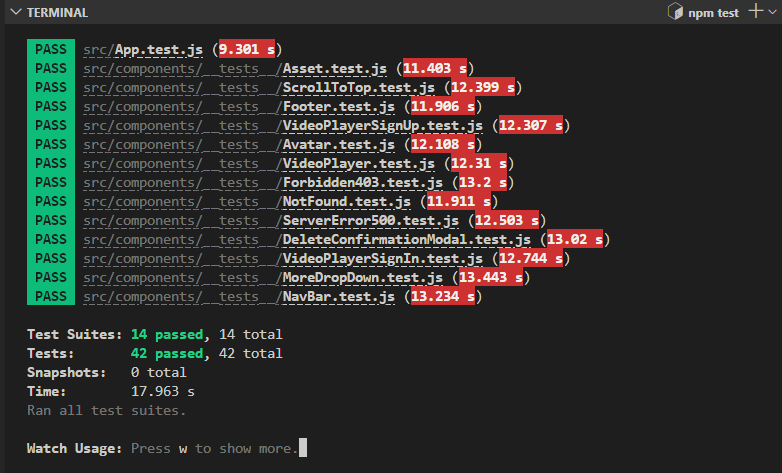
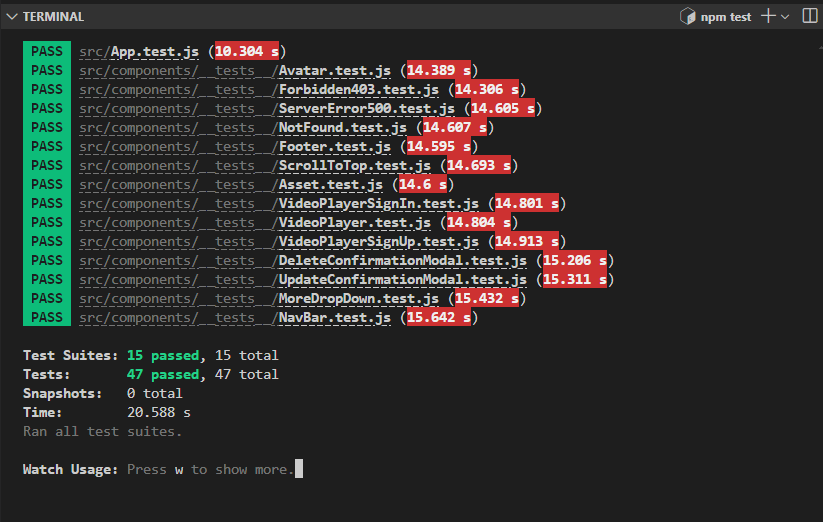
TESTING - Aadd update modal testing results to automated table

Changed region(s): [[0.0, 0.0, 0.798, 0.9767], [0.8286, 0.0, 1.0, 0.0592]]

diff --git a/src/App.js b/src/App.js
@@ -48,7 +48,7 @@ function App() {
             <Route exact path="/" component={LandingPage} />
             <Route
               exact
-              path="/"
+              path="/feed"
               render={() => (
                 <PostsPage message="No results found. Adjust the search keyword." />
               )}
@@ -124,9 +124,7 @@ function App() {
             <Route exact path="/courses/:slug" component={CourseSingle} />
             <Route exact path="/contactus" component={ContactForm} />
             <Route exact path="/403" component={Forbidden403} />{' '}
-            {/* Add the 403 route */}
             <Route exact path="/500" component={ServerError500} />{' '}
-            {/* Add the 500 route */}
             <Route component={NotFound} />
           </Switch>
         </Container>

diff --git a/TESTING.md b/TESTING.md
@@ -721,27 +721,28 @@ The following table summarizes the testing files created for various components 
 
 | Component                     | Test File Link                                              | Status                          |
 |-------------------------------|-------------------------------------------------------------|---------------------------------|
-| App                           | [src/App.test.js](src/App.test.js)                          | PASS (9.301 s)                  |
-| Asset                         | [src/components/__tests__/Asset.test.js](src/components/__tests__/Asset.test.js) | PASS (11.403 s)                 |
-| Avatar                        | [src/components/__tests__/Avatar.test.js](src/components/__tests__/Avatar.test.js) | PASS (12.108 s)                 |
-| Footer                        | [src/components/__tests__/Footer.test.js](src/components/__tests__/Footer.test.js) | PASS (11.906 s)                 |
-| MoreDropDown                  | [src/components/__tests__/MoreDropDown.test.js](src/components/__tests__/MoreDropDown.test.js) | PASS (13.443 s)                 |
-| NavBar                        | [src/components/__tests__/NavBar.test.js](src/components/__tests__/NavBar.test.js) | PASS (13.234 s)                 |
-| NotFound                      | [src/components/__tests__/NotFound.test.js](src/components/__tests__/NotFound.test.js) | PASS (11.911 s)                 |
-| ScrollToTop                   | [src/components/__tests__/ScrollToTop.test.js](src/components/__tests__/ScrollToTop.test.js) | PASS (12.399 s)                 |
-| VideoPlayer                   | [src/components/__tests__/VideoPlayer.test.js](src/components/__tests__/VideoPlayer.test.js) | PASS (12.31 s)                  |
-| VideoPlayerSignIn             | [src/components/__tests__/VideoPlayerSignIn.test.js](src/components/__tests__/VideoPlayerSignIn.test.js) | PASS (12.744 s)                 |
-| VideoPlayerSignUp             | [src/components/__tests__/VideoPlayerSignUp.test.js](src/components/__tests__/VideoPlayerSignUp.test.js) | PASS (12.307 s)                 |
-| ServerError500                | [src/components/__tests__/ServerError500.test.js](src/components/__tests__/ServerError500.test.js) | PASS (12.503 s)                 |
-| Forbidden403                  | [src/components/__tests__/Forbidden403.test.js](src/components/__tests__/Forbidden403.test.js) | PASS (13.2 s)                   |
-| DeleteConfirmationModal       | [src/components/__tests__/DeleteConfirmationModal.test.js](src/components/__tests__/DeleteConfirmationModal.test.js) | PASS (13.02 s)                  |
+| App                           | [src/App.test.js](src/App.test.js)                          | PASS (10.304 s)                 |
+| Asset                         | [src/components/__tests__/Asset.test.js](src/components/__tests__/Asset.test.js) | PASS (14.6 s)                   |
+| Avatar                        | [src/components/__tests__/Avatar.test.js](src/components/__tests__/Avatar.test.js) | PASS (14.389 s)                 |
+| Footer                        | [src/components/__tests__/Footer.test.js](src/components/__tests__/Footer.test.js) | PASS (14.595 s)                 |
+| MoreDropDown                  | [src/components/__tests__/MoreDropDown.test.js](src/components/__tests__/MoreDropDown.test.js) | PASS (15.432 s)                 |
+| NavBar                        | [src/components/__tests__/NavBar.test.js](src/components/__tests__/NavBar.test.js) | PASS (15.642 s)                 |
+| NotFound                      | [src/components/__tests__/NotFound.test.js](src/components/__tests__/NotFound.test.js) | PASS (14.607 s)                 |
+| ScrollToTop                   | [src/components/__tests__/ScrollToTop.test.js](src/components/__tests__/ScrollToTop.test.js) | PASS (14.693 s)                 |
+| VideoPlayer                   | [src/components/__tests__/VideoPlayer.test.js](src/components/__tests__/VideoPlayer.test.js) | PASS (14.804 s)                 |
+| VideoPlayerSignIn             | [src/components/__tests__/VideoPlayerSignIn.test.js](src/components/__tests__/VideoPlayerSignIn.test.js) | PASS (14.801 s)                 |
+| VideoPlayerSignUp             | [src/components/__tests__/VideoPlayerSignUp.test.js](src/components/__tests__/VideoPlayerSignUp.test.js) | PASS (14.913 s)                 |
+| ServerError500                | [src/components/__tests__/ServerError500.test.js](src/components/__tests__/ServerError500.test.js) | PASS (14.605 s)                 |
+| Forbidden403                  | [src/components/__tests__/Forbidden403.test.js](src/components/__tests__/Forbidden403.test.js) | PASS (14.306 s)                 |
+| DeleteConfirmationModal       | [src/components/__tests__/DeleteConfirmationModal.test.js](src/components/__tests__/DeleteConfirmationModal.test.js) | PASS (15.206 s)                 |
+| UpdateConfirmationModal       | [src/components/__tests__/UpdateConfirmationModal.test.js](src/components/__tests__/UpdateConfirmationModal.test.js) | PASS (15.311 s)                 |
 
 ### Summary of Test Results
 
-- **Total Test Suites**: 14
-- **Passed Test Suites**: 14
-- **Total Tests**: 42
-- **Passed Tests**: 42
+- **Total Test Suites**: 15
+- **Passed Test Suites**: 15
+- **Total Tests**: 47
+- **Passed Tests**: 47
 - **Total Snapshots**: 0
 
 These results demonstrate the thoroughness of our testing approach and confirm that all components are functioning as expected within the Diving Center project. The successful passing of all tests provides confidence in the reliability and stability of the application's core components.
